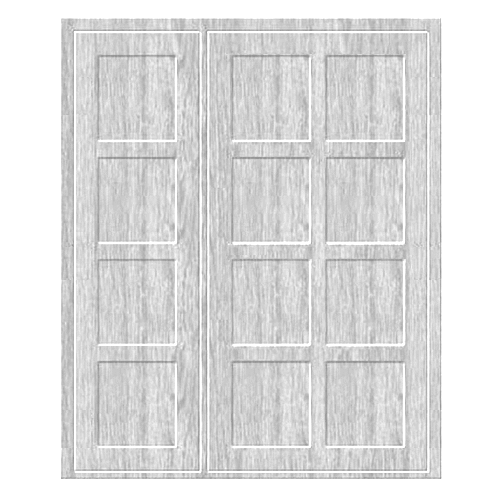
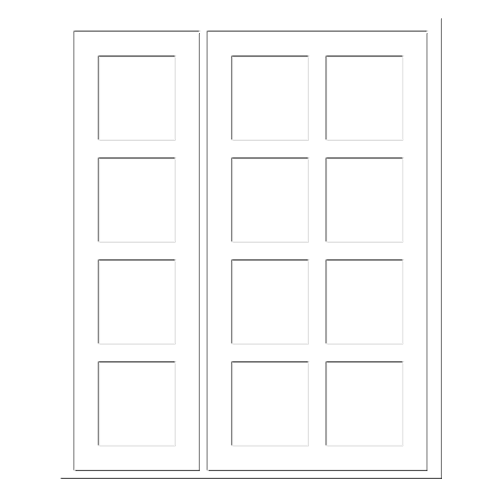
Add files via upload

diff --git a/app/index.html b/app/index.html
@@ -41,18 +41,58 @@
                             <div id="backsplash" class="position-absolute"></div>
                             <div class="door position-absolute">
                                 <svg id="double-door" data-name="double-door" xmlns="http://www.w3.org/2000/svg" viewBox="0 0 375 375">
-                                    <rect class="double-door" id="double-door-rectangle" x="45.07" y="13.63" width="286.43" height="345.56"/>
+                                    <defs>
+                                        <style>.cls-1{fill:red;fill-rule:evenodd;}</style>
+                                        <pattern id="color-white" width="100%" height="100%">
+                                            <image xlink:href="images/door/big/white.jpg" x="0" y="0" width="100%" height="100%" />
+                                        </pattern>
+                                        <pattern id="color-anthrazit" width="100%" height="100%">
+                                            <image xlink:href="images/door/big/anthrazit.jpg" x="0" y="0" width="100%" height="100%" />
+                                        </pattern>
+                                        <pattern id="color-walnut" width="100%" height="100%">
+                                            <image xlink:href="images/door/big/walnut.jpg" x="0" y="0" width="100%" height="100%" />
+                                        </pattern>
+                                        <pattern id="color-goldenoak" width="100%" height="100%">
+                                            <image xlink:href="images/door/big/goldenoak.jpg" x="0" y="0" width="100%" height="100%" />
+                                        </pattern>
+                                        <pattern id="color-mahogany" width="100%" height="100%">
+                                            <image xlink:href="images/door/big/mahogany.jpg" x="0" y="0" width="100%" height="100%" />
+                                        </pattern>
+                                        <pattern id="color-darkoak" width="100%" height="100%">
+                                            <image xlink:href="images/door/big/darkoak.jpg" x="0" y="0" width="100%" height="100%" />
+                                        </pattern>
+                                    </defs>
+                                    <rect class="svg-door double-door" id="double-door-rectangle" x="45.07" y="13.63" width="286.43" height="345.56" fill="url(#color-anthrazit)"/>
                                 </svg>
                                 <svg id="single-door" data-name="single-door" xmlns="http://www.w3.org/2000/svg" viewBox="0 0 375 375">
-                                    <rect class="double-door" id="single-door-rectangle" x="94.07" y="13.63" width="184.93" height="345.56"/>
+                                    <!--<defs>-->
+                                        <!--<style>.cls-1{fill:red;fill-rule:evenodd;}</style>-->
+                                        <!--<pattern id="color-white" width="100%" height="100%">-->
+                                            <!--<image xlink:href="images/door/big/white.jpg" x="0" y="0" width="100%" height="100%" />-->
+                                        <!--</pattern>-->
+                                        <!--<pattern id="color-anthrazit" width="100%" height="100%">-->
+                                            <!--<image xlink:href="images/door/big/anthrazit.jpg" x="0" y="0" width="100%" height="100%" />-->
+                                        <!--</pattern>-->
+                                        <!--<pattern id="color-walnut" width="100%" height="100%">-->
+                                            <!--<image xlink:href="images/door/big/walnut.jpg" x="0" y="0" width="100%" height="100%" />-->
+                                        <!--</pattern>-->
+                                        <!--<pattern id="color-goldenoak" width="100%" height="100%">-->
+                                            <!--<image xlink:href="images/door/big/goldenoak.jpg" x="0" y="0" width="100%" height="100%" />-->
+                                        <!--</pattern>-->
+                                        <!--<pattern id="color-mahogany" width="100%" height="100%">-->
+                                            <!--<image xlink:href="images/door/big/mahogany.jpg" x="0" y="0" width="100%" height="100%" />-->
+                                        <!--</pattern>-->
+                                        <!--<pattern id="color-darkoak" width="100%" height="100%">-->
+                                            <!--<image xlink:href="images/door/big/darkoak.jpg" x="0" y="0" width="100%" height="100%" />-->
+                                        <!--</pattern>-->
+                                    <!--</defs>-->
+                                    <rect class="svg-door double-door" id="single-door-rectangle" x="94.07" y="13.63" width="184.93" height="345.56" fill="url(#color-anthrazit)"/>
                                 </svg>
                                 <img src="images/door/door-01.png" class="img-fluid" id="door" alt="">
                             </div>
                             <div id="sidelight" class="position-absolute">
                                 <svg id="door-sidelight" data-name="door-sidelight" xmlns="http://www.w3.org/2000/svg" viewBox="0 0 375 375">
-                                    <defs>
-                                        <style>.n{fill:#d24a43;}.clear{fill:transparent;}</style>
-                                    </defs>
+
                                     <rect class="sidelight sidelight-01 sidelight-22 sidelight-25 sidelight-43 sidelight-44 sidelight-45" x="74.66" y="42.43" width="56.84" height="62.11"/>
                                     <rect class="sidelight sidelight-01 sidelight-22 sidelight-24 sidelight-03 sidelight-43 sidelight-44" x="74.66" y="119.69" width="56.84" height="62.11"/>
                                     <rect class="sidelight sidelight-01 sidelight-22 sidelight-24 sidelight-25 sidelight-43 sidelight-44" x="74.66" y="195.95" width="56.84" height="62.11"/>
@@ -155,10 +195,12 @@
                         <div class="visualizer-block">
                             <h6 class="title text-uppercase">Doors color</h6>
                             <div class="visualizer-colors door-block">
-                                <div class="door-color" style="background-color: #adadaa" data-hex="#adadaa"></div>
-                                <div class="door-color" style="background-color: #961e28" data-hex="#961e28"></div>
-                                <div class="door-color" style="background-color: #fcfffc" data-hex="#fcfffc"></div>
-                                <div class="door-color" style="background-color: #303235" data-hex="#303235"></div>
+                                <div class="door-color" style="background: #54565c url(images/door/small/anthrazit.jpg)" data-hex="#54565c" data-url="anthrazit" title="Anthrazit" data-title="Anthrazit"></div>
+                                <div class="door-color" style="background: #82461f url(images/door/small/walnut.jpg)" data-hex="#82461f" data-url="walnut" title="Walnut" data-title="Walnut"></div>
+                                <div class="door-color" style="background: #9e5c17 url(images/door/small/goldenoak.jpg)" data-hex="#9e5c17" data-url="goldenoak" title="Golden Oak" data-title="Golden Oak"></div>
+                                <div class="door-color" style="background: #542116 url(images/door/small/mahogany.jpg)" data-hex="#542116" data-url="mahogany" title="Mahogany" data-title="Mahogany"></div>
+                                <div class="door-color" style="background: #382a24 url(images/door/small/darkoak.jpg)" data-hex="#382a24" data-url="darkoak" title="Dark Oak" data-title="Dark Oak"></div>
+                                <div class="door-color" style="background: #ffffff url(images/door/small/white.jpg)" data-hex="#ffffff" data-url="white" title="White" data-title="White"></div>
                             </div>
                         </div>
                         <div class="visualizer-block">

diff --git a/app/css/styles.css b/app/css/styles.css
@@ -19,18 +19,11 @@
   padding: 0; }
 
 .scale:hover {
-  -moz-transform: scale(1.05);
-  -ms-transform: scale(1.05);
-  -o-transform: scale(1.05);
   transform: scale(1.05); }
 
 .animate {
-  -o-transition: .3s;
-  -moz-transition: .3s;
   transition: .3s; }
   .animate:hover {
-    -o-transition: .3s;
-    -moz-transition: .3s;
     transition: .3s; }
 
 .visualizer-block {
@@ -81,7 +74,7 @@
   background-position: 50%; }
 
 .double-door {
-  fill: #adadaa; }
+  fill: #54565c; }
 
 .handles {
   fill: #c6c8c3; }
@@ -124,8 +117,6 @@
   top: 0; }
 
 .door-block {
-  display: -moz-inline-box;
-  display: -ms-inline-flexbox;
   display: inline-flex;
   position: relative;
   width: 100%;
@@ -147,12 +138,7 @@
   margin-right: 5px;
   border: 1px solid #999; }
   .door-type:hover, .door-color:hover, .handles-color:hover, .backsplash-color:hover, .door-sidelight:hover, .door-inserts:hover {
-    -moz-transform: scale(1.05);
-    -ms-transform: scale(1.05);
-    -o-transform: scale(1.05);
     transform: scale(1.05);
-    -o-transition: .3s;
-    -moz-transition: .3s;
     transition: .3s; }
 
 /* Костыль для Safari*/

diff --git a/app/js/script.js b/app/js/script.js
@@ -7,6 +7,7 @@ const singleDoor = document.getElementById("single-door-rectangle");
 const handles = document.getElementsByClassName("handles");
 const sidelight = document.getElementsByClassName("sidelight");
 const door = document.getElementsByClassName("door-sidelight");
+const svgDoor = document.getElementsByClassName("svg-door");
 
 // backsplash color
 var backsplashColor = document.getElementsByClassName("backsplash-color");
@@ -77,6 +78,13 @@ function changeDoorColor(e) {
     let hex = this.getAttribute("data-hex");
     doubleDoor.style.fill = hex;
     singleDoor.style.fill = hex;
+    let url = e.target.getAttribute("data-url");
+    let title = e.target.getAttribute("data-title");
+    //document.getElementById("color").innerHTML = title;
+
+    for (var dc = 0; dc < svgDoor.length; dc++) {
+        svgDoor[dc].style.fill = "url(#color-" + url +")";
+    }
 }
 
 //door inserts

diff --git a/app/scss/_body.scss b/app/scss/_body.scss
@@ -101,7 +101,7 @@
 }
 
 .double-door {
-  fill: #adadaa;
+  fill: #54565c;
 }
 
 .handles {
